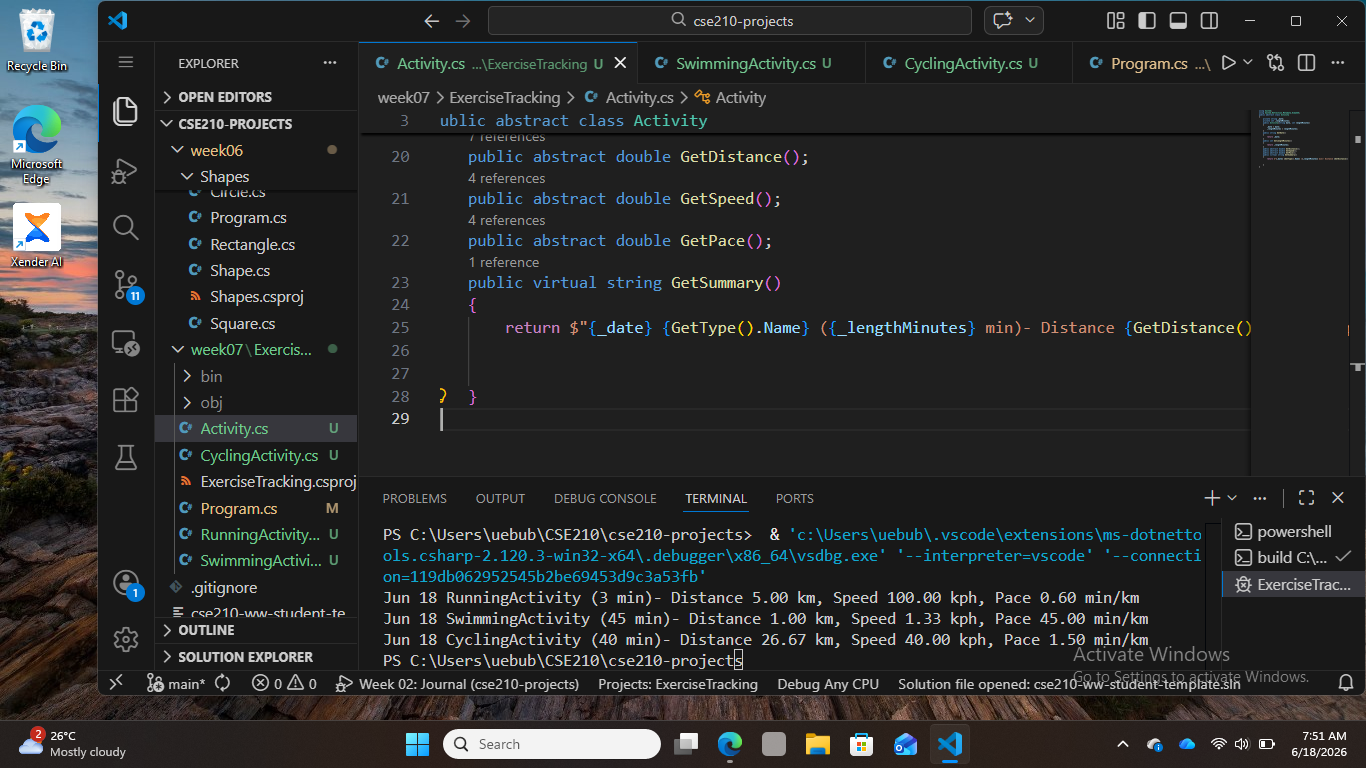
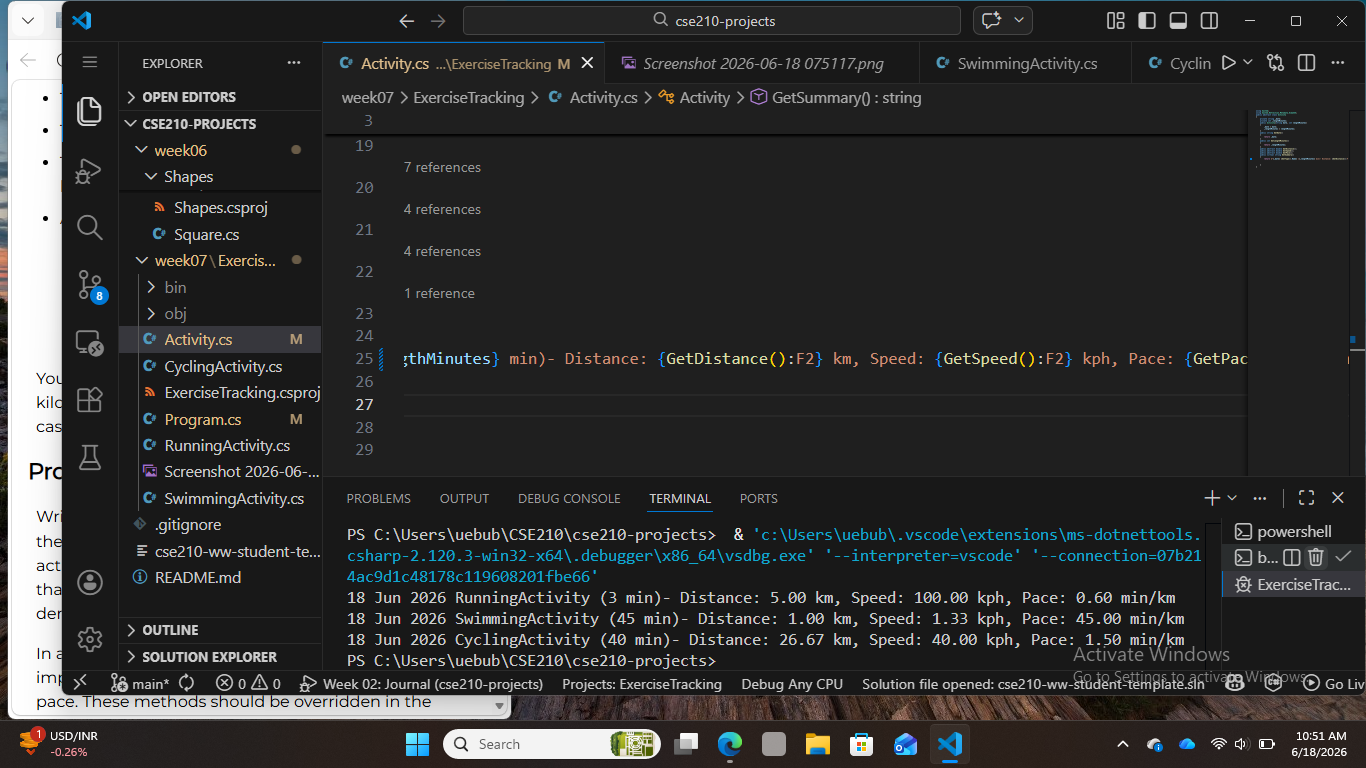
Made correction

diff --git a/week07/ExerciseTracking/Program.cs b/week07/ExerciseTracking/Program.cs
@@ -5,9 +5,9 @@ class Program
     static void Main(string[] args)
     {
         List<Activity> _activities = new List<Activity>();
-        _activities.Add(new RunningActivity("Jun 18", 3, 5));
-        _activities.Add(new SwimmingActivity("Jun 18", 45, 20));
-        _activities.Add(new CyclingActivity("Jun 18", 40, 40));
+        _activities.Add(new RunningActivity("18 Jun 2026", 3, 5));
+        _activities.Add(new SwimmingActivity("18 Jun 2026", 45, 20));
+        _activities.Add(new CyclingActivity("18 Jun 2026", 40, 40));
         foreach (Activity activity in _activities)
         {
             Console.WriteLine(activity.GetSummary());

diff --git a/week07/ExerciseTracking/Activity.cs b/week07/ExerciseTracking/Activity.cs
@@ -22,7 +22,7 @@ public abstract class Activity
     public abstract double GetPace();
     public virtual string GetSummary()
     {
-        return $"{_date} {GetType().Name} ({_lengthMinutes} min)- Distance {GetDistance():F2} km, Speed {GetSpeed():F2} kph, Pace {GetPace():F2} min/km";
+        return $"{_date} {GetType().Name} ({_lengthMinutes} min)- Distance: {GetDistance():F2} km, Speed: {GetSpeed():F2} kph, Pace: {GetPace():F2} min/km";
 
         
     }
